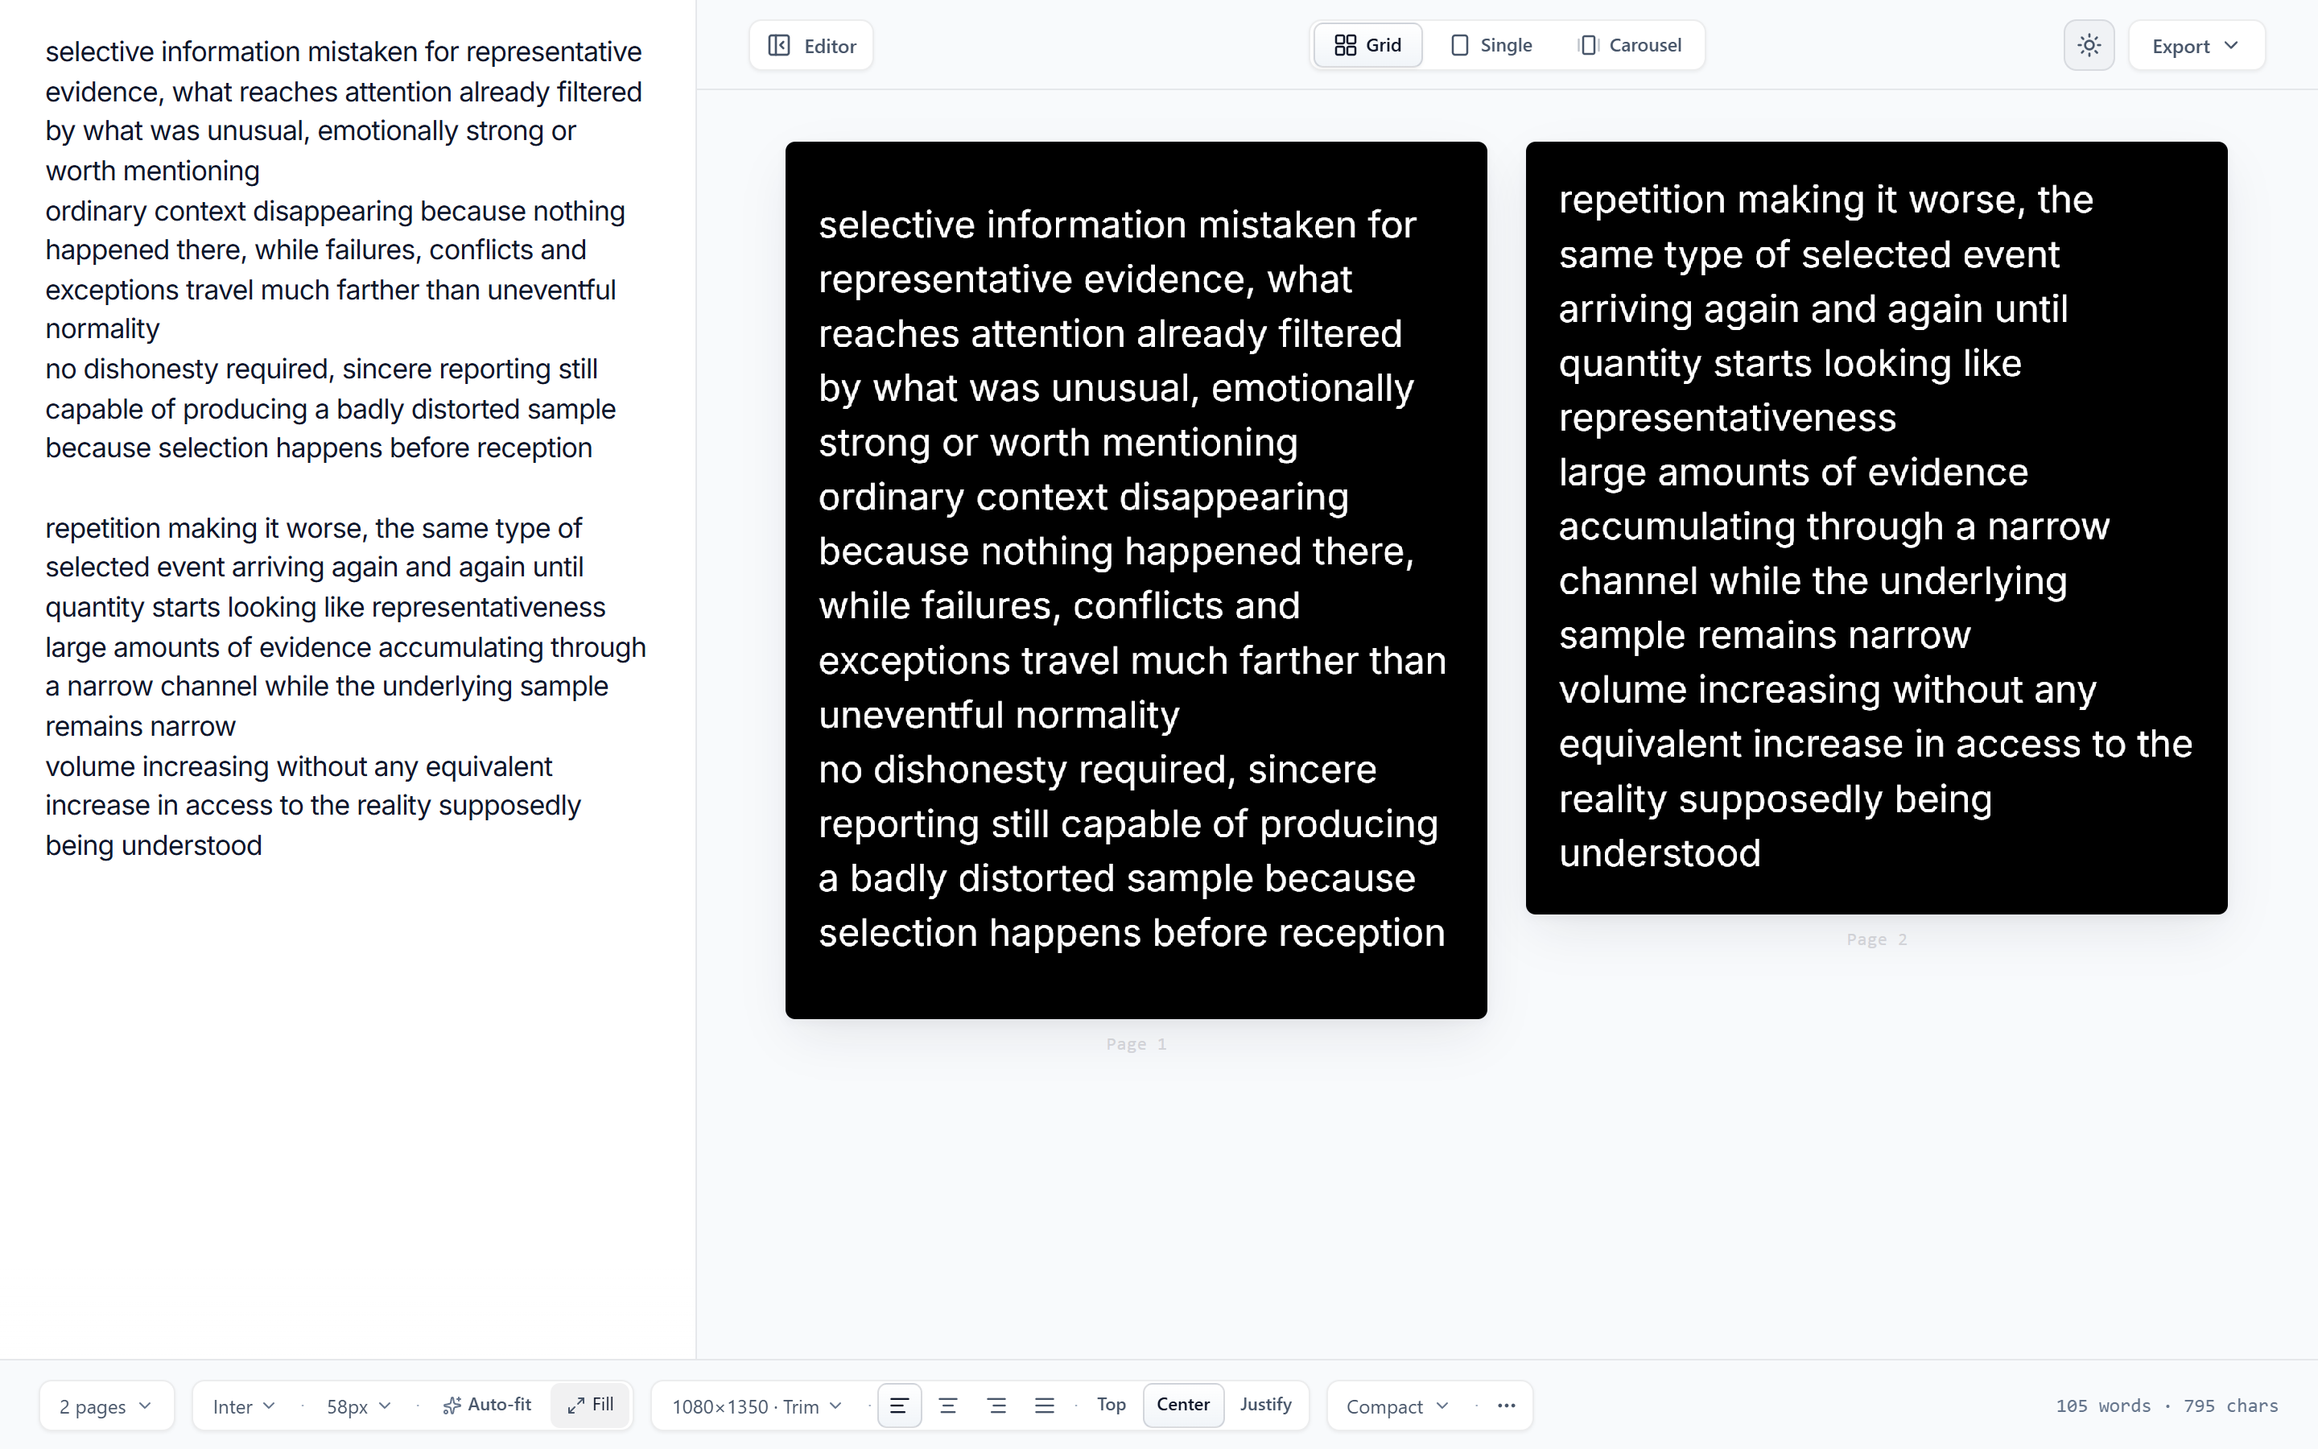
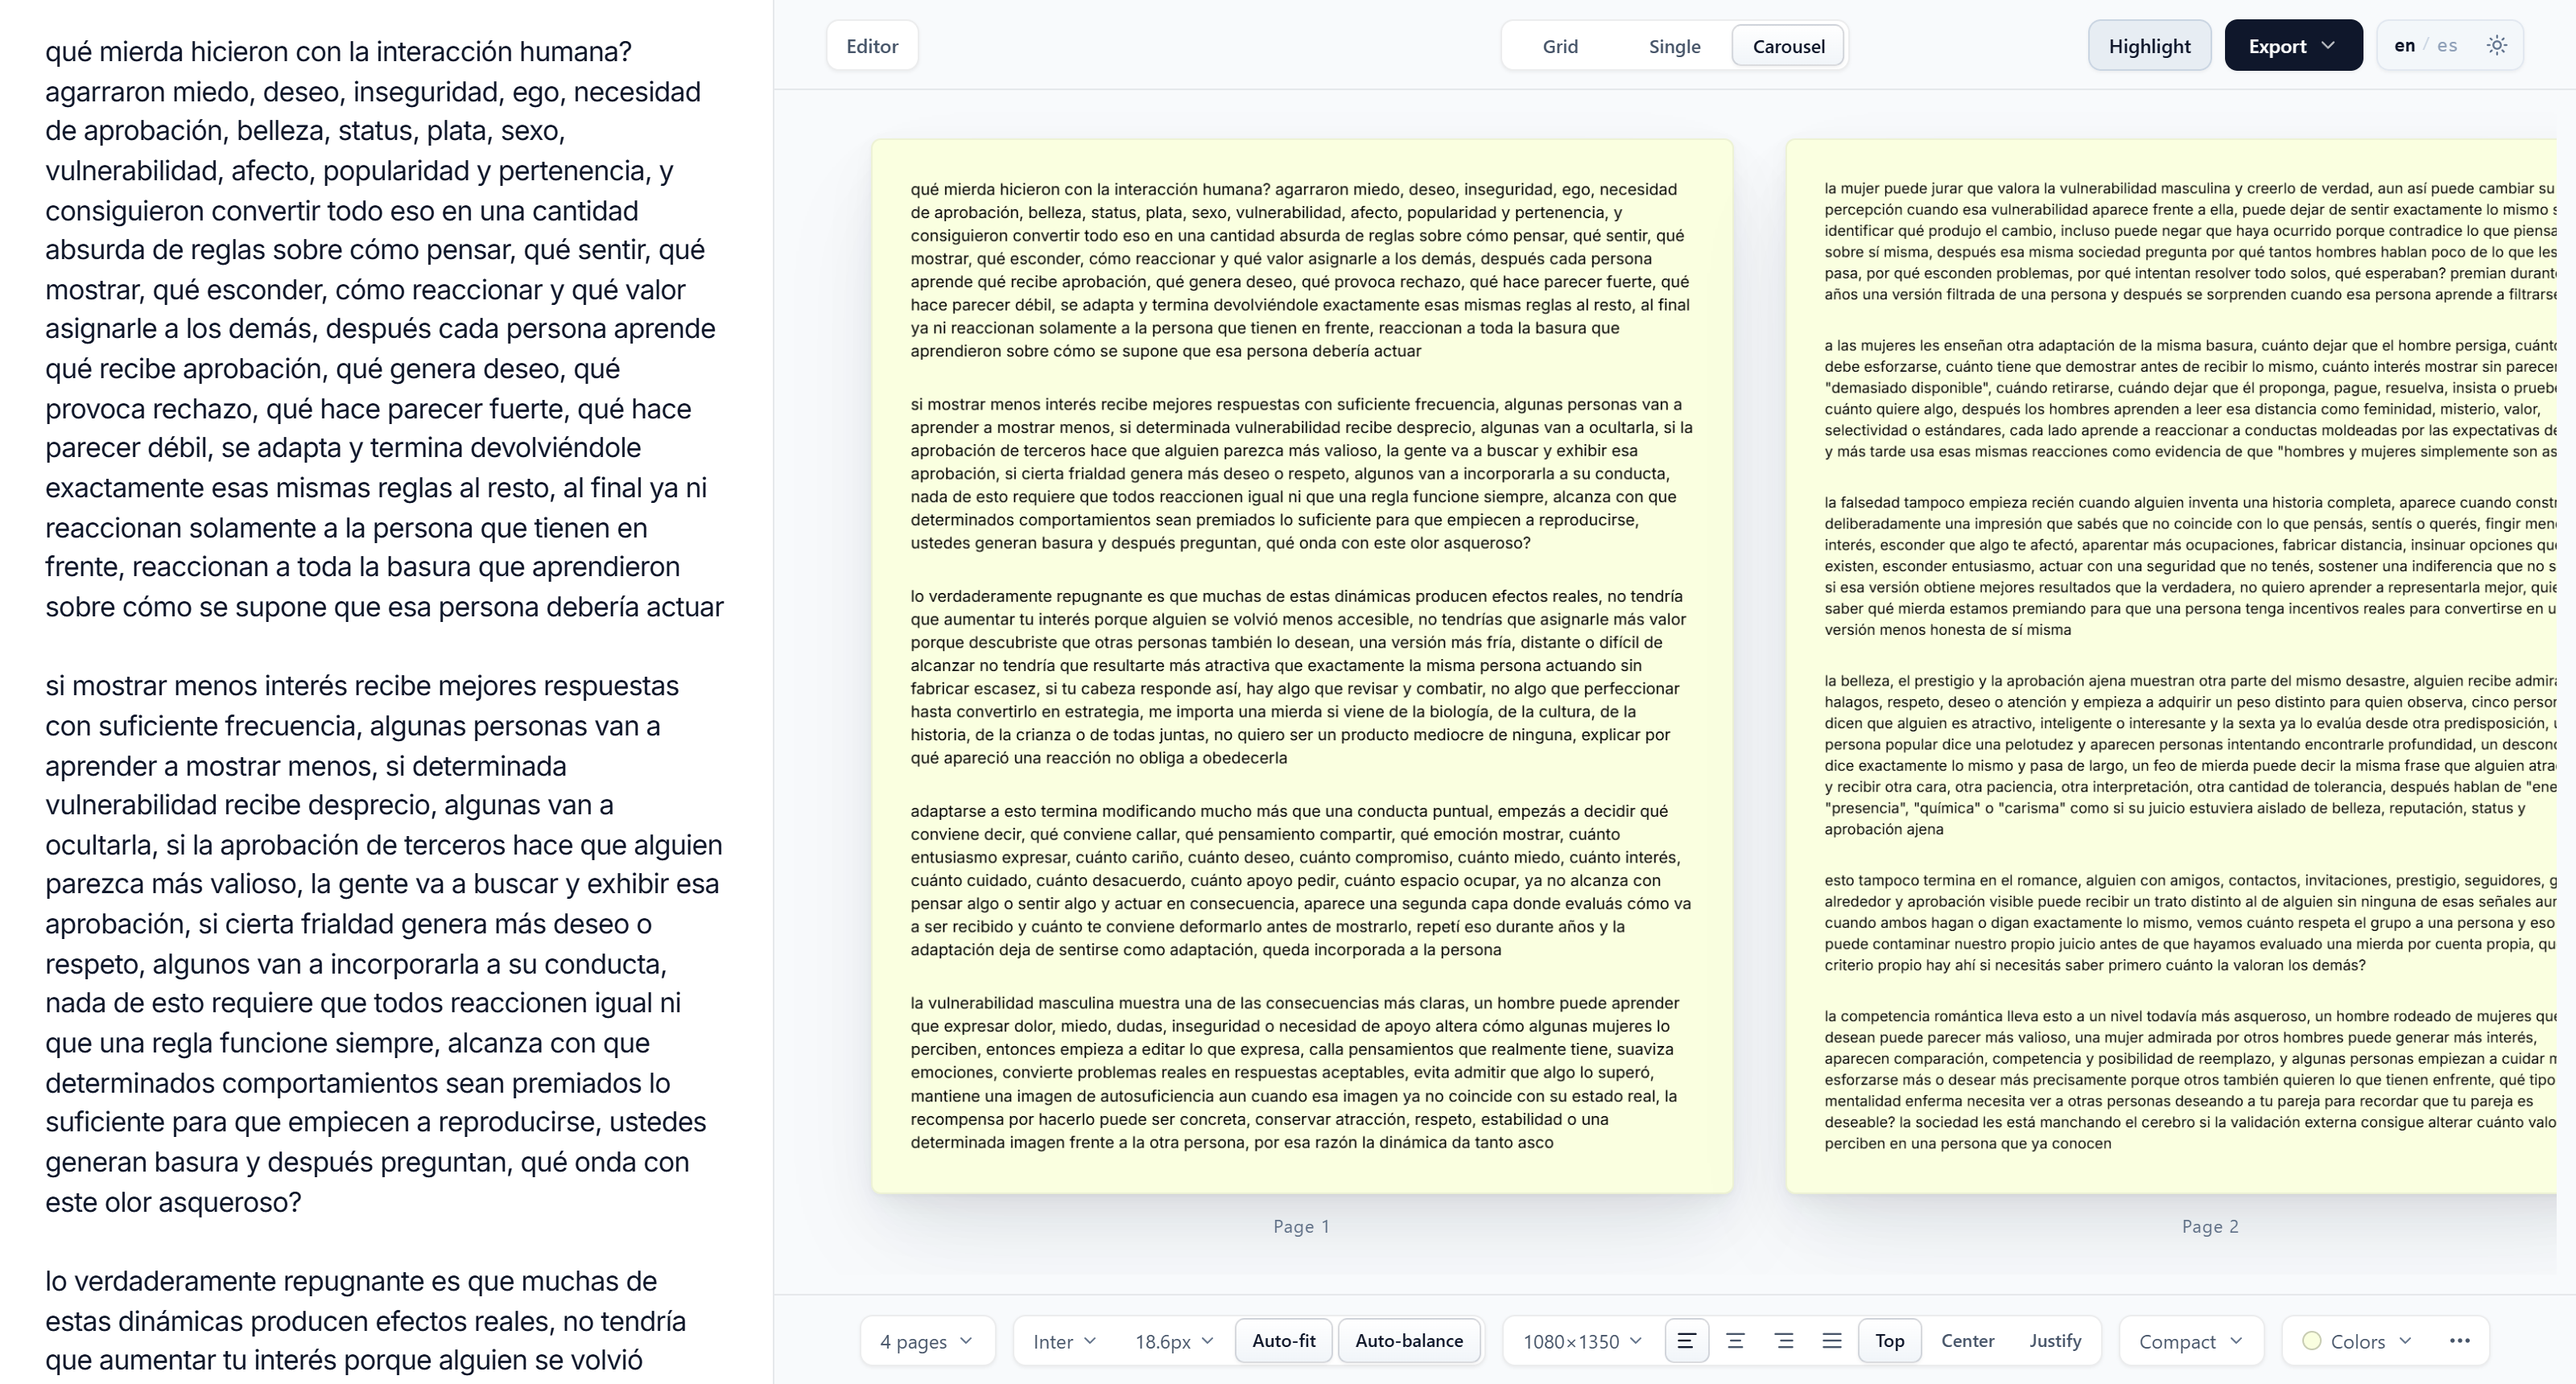
docs(readme): update preview screenshots with #faffe0 light canvas and place images at top

diff --git a/README.md b/README.md
@@ -14,7 +14,6 @@
 <p align="center">
   <a href="https://miyakejima.github.io/longform-rasterizer/"><strong>Launch Web App</strong></a> ·
   <a href="#why-this-exists">Why This Exists</a> ·
-  <a href="#previews">Previews</a> ·
   <a href="#features">Features</a> ·
   <a href="#canvas-presets">Canvas Presets</a> ·
   <a href="#run-locally-optional">Run Locally</a>
@@ -27,6 +26,12 @@
 
 ---
 
+![Carousel](docs/screenshots/workstation-light.png)
+
+![Single](docs/screenshots/single-focus-dark.png)
+
+---
+
 ## Why this exists
 
 Posting long-form writing on visual social platforms (X, Threads, Instagram, LinkedIn) is broken:
@@ -36,18 +41,6 @@ Posting long-form writing on visual social platforms (X, Threads, Instagram, Lin
 - **Manual Design Friction**: Laying out text manually across design tools requires constant re-adjusting whenever text is edited.
 
 longform-rasterizer solves this with dynamic layout partitioning directly in your browser. Paste your text, choose your canvas preset, and the engine automatically balances line heights, font sizes, and paragraph breaks across cards with over 95% vertical utilization—ready for instant high-DPI export.
-
----
-
-## Previews
-
-### Balanced Multi-Card Workstation (Linen Light Theme)
-
-![longform-rasterizer Light Theme](docs/screenshots/workstation-light.png)
-
-### Single Focus View (AMOLED Dark Theme)
-
-![longform-rasterizer Single Focus Dark](docs/screenshots/single-focus-dark.png)
 
 ---
 
